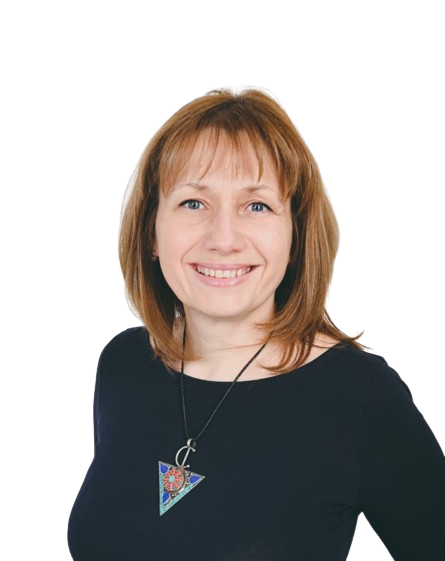
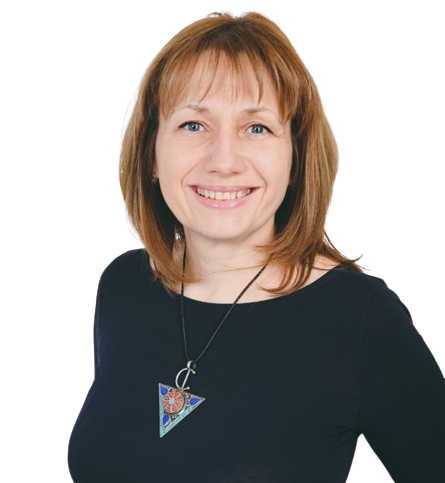
Fix мои правки 2

diff --git a/components/AboutMe.tsx b/components/AboutMe.tsx
@@ -50,7 +50,7 @@ const HeroSectionImageRight = () => {
                     }}
                     gap='2rem'
                 >
-                    <Box sx={{ maxWidth: '1000px', order: 2 }}>
+                    <Box sx={{ maxWidth: '1000px', order: 2, flex: '1' }}>
                         <Typography variant='h6' gutterBottom>
                             {t.AboutMe.aboutMeText1}
                         </Typography>
@@ -61,8 +61,9 @@ const HeroSectionImageRight = () => {
                     <Box
                         sx={{
                             order: 1,
-                            maxWidth: '400px',
+                            maxWidth: '300px',
                             margin: '0 auto',
+                            flex: '1',
                         }}
                     >
                         <Image

diff --git a/components/WithWhatIWork.tsx b/components/WithWhatIWork.tsx
@@ -228,8 +228,8 @@ const WithWhatIWork = () => {
                     </Box>
                 </Box>
                 <Box sx={{ flex: '1' }}>
-                    {difficultiesWithOthers.map((data: string) => (
-                        <Typography variant='h6' gutterBottom>
+                    {difficultiesWithOthers.map((data: string, id: number) => (
+                        <Typography key={id} variant='h6' gutterBottom>
                             &#8226; {data}
                         </Typography>
                     ))}

diff --git a/styles/theme.ts b/styles/theme.ts
@@ -17,15 +17,7 @@ export const handwriteFont = Bad_Script({
 })
 
 let theme = createTheme({
-    components: {
-        MuiTypography: {
-            defaultProps: {
-                variantMapping: {
-                    h4: 'h5',
-                },
-            },
-        },
-    },
+    components: {},
     palette: {
         primary: {
             main: '#D4CCD7',
